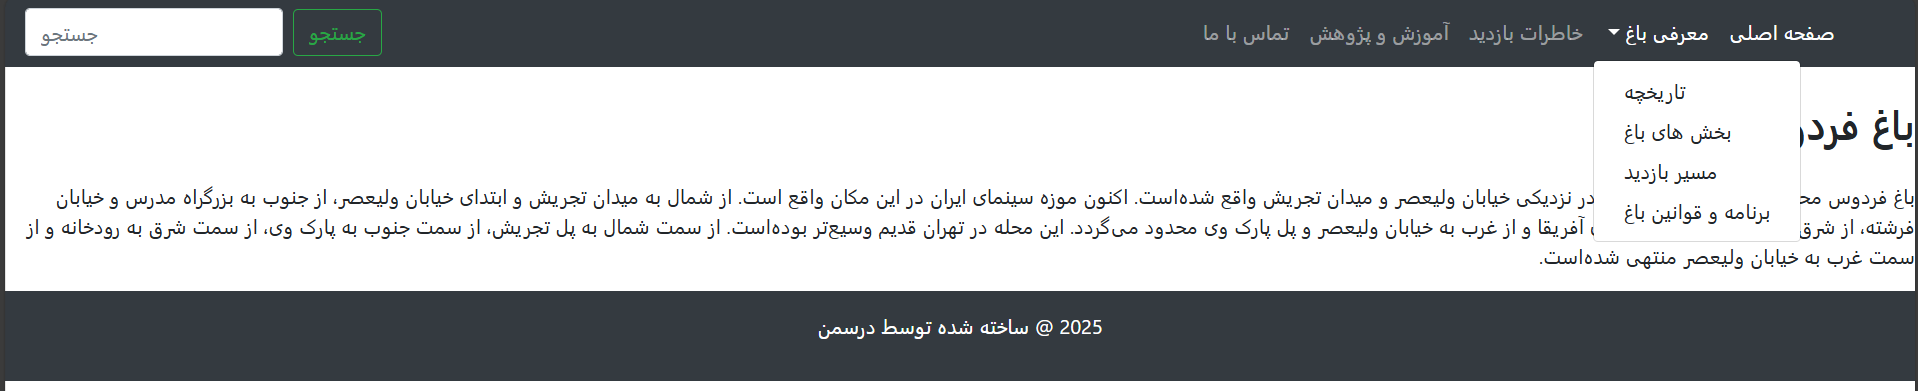
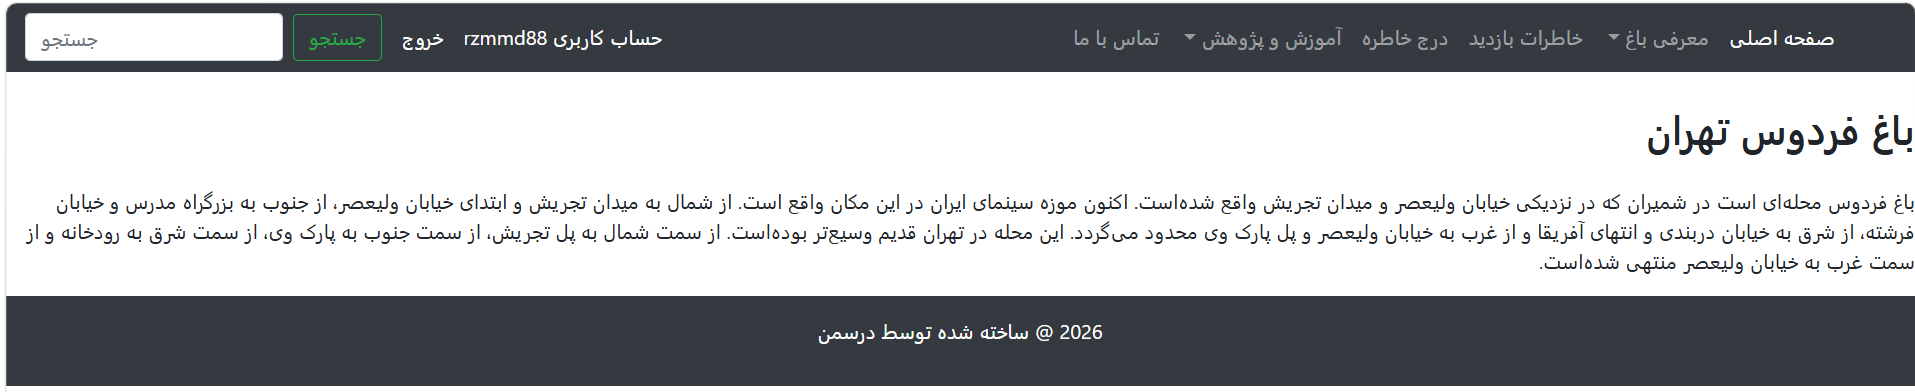
Completed

diff --git a/README.md b/README.md
@@ -23,3 +23,18 @@
 - در این بخش اطلاعیه های مربوط به کارگاه های باغ موزه قرار خواهد گرفت .
 - این بخش شامل اطلاعیه های تمام کارگاه ها از قبیل برگزار شده، برگزار نشده، لغو شده یا درحال برگزاری می باشد .
 - سورس کد مربوط به این اپلیکیشن نیز در پوشه مربوطه قرار داده شده است .
+- لازم به ذکر است هر دو بخش کارگاه ها و مقالات در بخش آموزش و پژوهش قرار گزفته اند .
+
+### حساب کاربری
+- این بخش جهت مدیریت حساب های کاربری ، ثبت نام و احراز هویت توسعه داده شده است .
+- بدین ترتیب کاربران حراز هویت شده می توانند خاطرات خود را ثبت کرده یا خاطرات مورد علاقه خود را لایک کنند .
+- سورس کد مربوط به این اپلیکیشن نیز قرار داده شده است.
+
+### خاطرات
+- این بخش جهت ثبت و نمایش خاطرات کاربران توسعه داده شده است .
+- سورس کد مربوط به این اپلیکیشن نیز قرار داده شده است.
+
+### جستوجو
+- این بخش جهت جستوجوی کاربران در بخش های مختلف سایت طراحی شده است .
+- لازم به ذکر است که جستوجو فقط در عناوین سه بخش خاطرات ، کارگاه ها و مقالات صورت خواهد گرفت .
+- سورس کد مربوط به این اپلیکیشن نیز قرار داده شده است .
